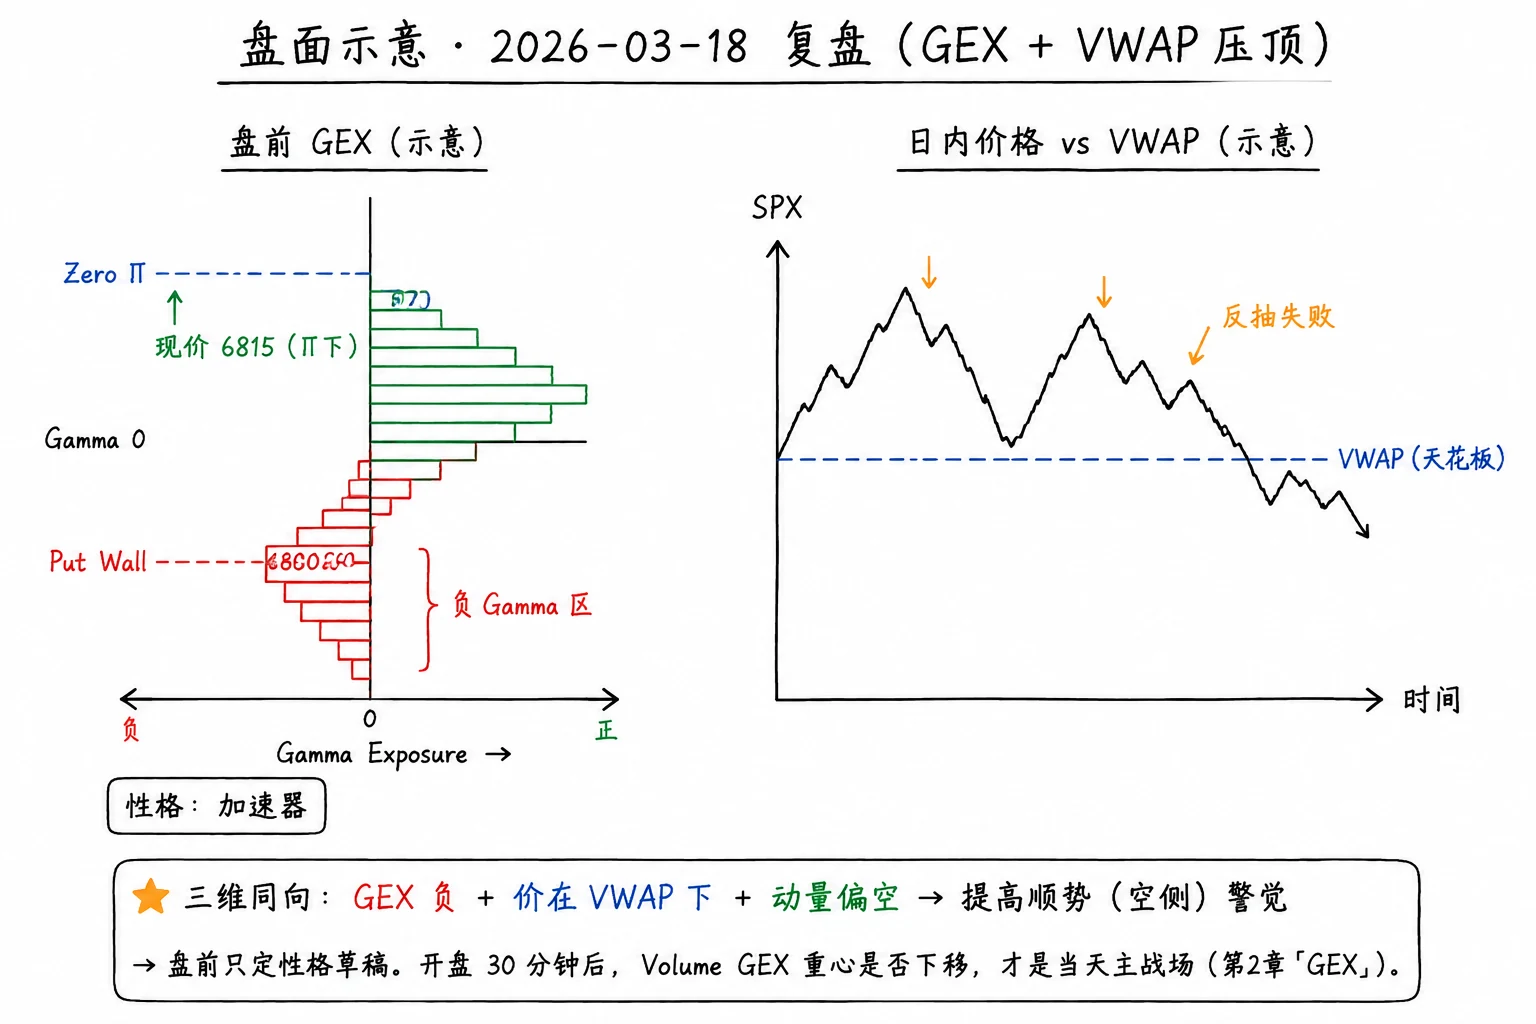
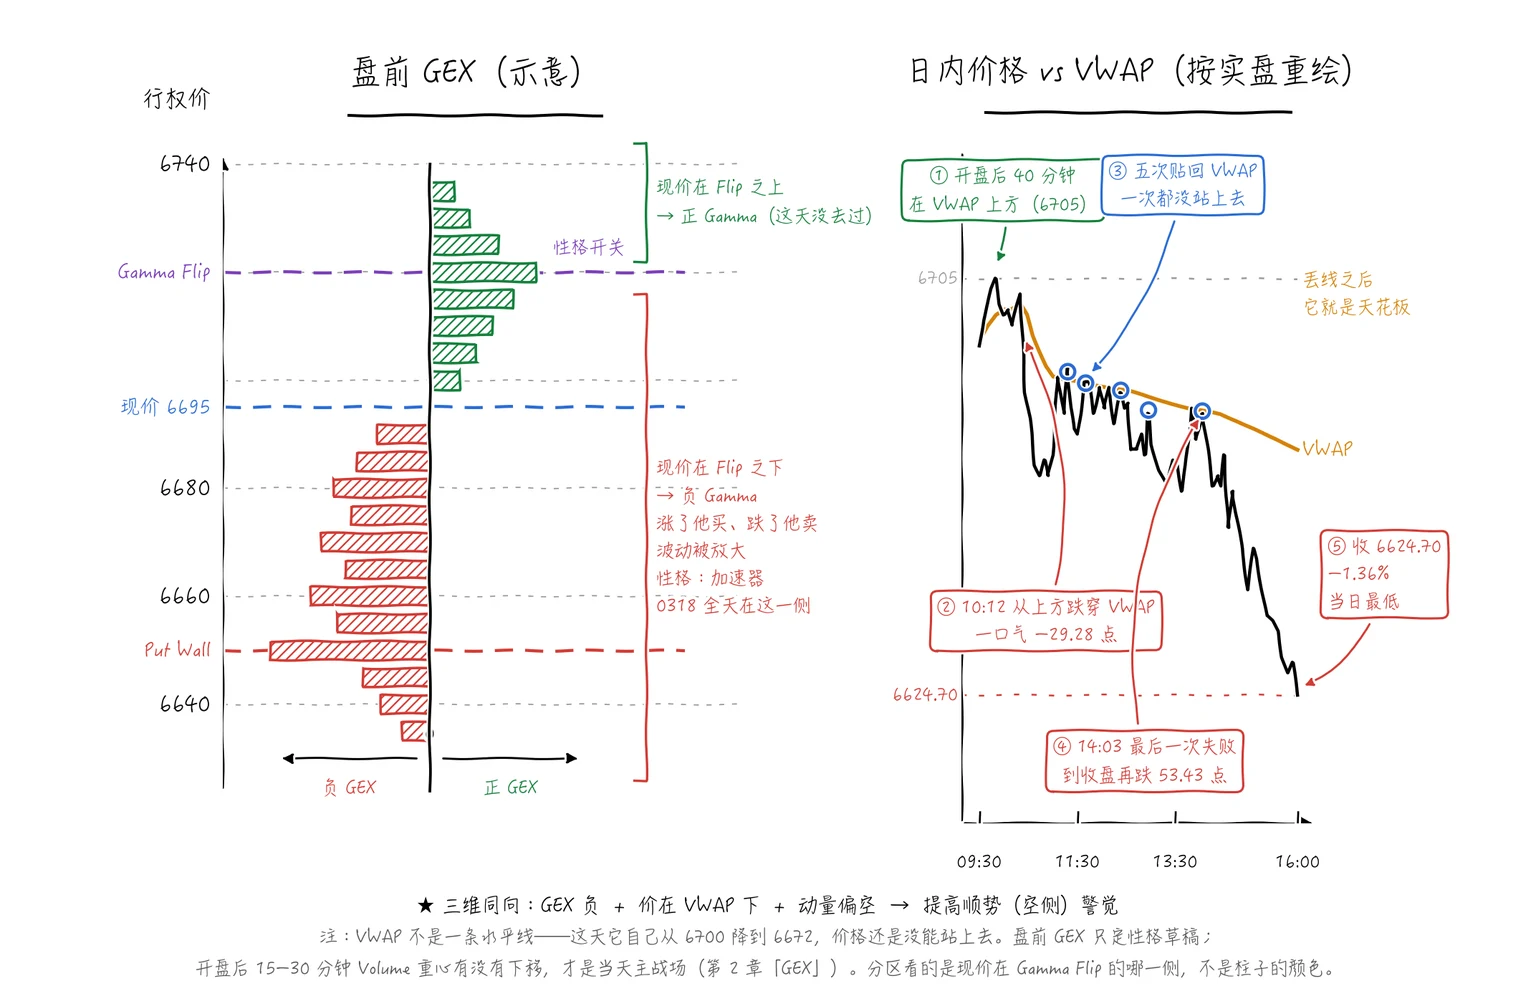
docs(第6章): 重绘图 6-4，改用 0318 真实价格轴与实盘路径
- 原图价格标注取自别的交易日（现价 6815 / Put Wall 6800），
  而 0318 全天运行在 6624–6705；价格轴整体换成当日真实区间
- 原图右半边把价格画在 VWAP 上方跑大半天，与「VWAP 天花板」自相矛盾；
  现按实盘重绘：10:12 跌穿、五次贴回失败、收 6624.70
- 删去「负 Gamma 区」把柱子颜色当性格分区的画法，
  改为按现价在 Gamma Flip 哪一侧分区（与图 4-3 口径一致）
- 页脚「开盘 30 分钟后」改为「开盘后 15–30 分钟」，与第 5 章统一
- 正文补「VWAP 不是水平线」一段，图注说明左右两半

diff --git a/content/chapters/06-stories-mid.md b/content/chapters/06-stories-mid.md
@@ -140,12 +140,12 @@ K 线如潮起复沉，墙头红绿各争侵。
 </figure>
 
 
-不是每天都有教科书级别的走势。那天 SPX 的结构，把第 5 章「GVP」的**空头版本**演了一遍——三件事同时指向同一方向。**图 6-4** 把 Flip 以下、VWAP 成顶、反弹一碰就落拧在一起；下面分维拆开读。
+不是每天都有教科书级别的走势。那天 SPX 的结构，把第 5 章「GVP」的**空头版本**演了一遍——三件事同时指向同一方向。**图 6-4** 把这天拧在一起看：左边是盘前 GEX 的性格草稿——现价在 Gamma Flip 之下，今天是加速器；右边是当日价格和 VWAP 的实际走法——丢线、五次贴回、一次都没站上。下面分维拆开读。
 
 
 <figure class="book-figure">
-  <img src="/images/figures/figure-045.webp" alt="图 6-4  GVP 偏空 · 结构与成本压顶" loading="lazy" decoding="async" />
-  <figcaption>图 6-4  GVP 偏空 · 结构与成本压顶</figcaption>
+  <img src="/images/figures/figure-045.webp" alt="图 6-4  GVP 偏空 · 左：盘前 GEX 示意，现价在 Gamma Flip 之下；右：当日价格与 VWAP 实盘" loading="lazy" decoding="async" />
+  <figcaption>图 6-4  GVP 偏空 · 左：盘前 GEX 示意，现价在 Gamma Flip 之下；右：当日价格与 VWAP 实盘</figcaption>
 </figure>
 
 
@@ -157,13 +157,15 @@ K 线如潮起复沉，墙头红绿各争侵。
 
 这一段最容易被记反，所以先说清楚：**0318 不是「开盘就没站上 VWAP」。**
 
-开盘后头 40 分钟，SPX 其实一直在 VWAP 上方，还冲到过 6705 一线。转折点在 **10:12**——价格从上方掉下来跌穿 VWAP，然后**一口气滑了 29.28 个点**。
+开盘后头 40 分钟，SPX 其实一直在 VWAP 上方，还冲到过 6705 一线（图 6-4 右）。转折点在 **10:12**——价格从上方掉下来跌穿 VWAP，然后**一口气滑了 29.28 个点**。
 
 那一下之后，它再也没回去过。
 
 剩下的一整天，价格五次重新贴上 VWAP 下沿——大约 **11:18、11:40、12:23、12:57、14:03**——一次都没站上去。最后一次是 14:03，碰完就掉头往下，**到收盘又跌了 53.43 个点**，最终收在 **6624.70，全天 −1.36%，收盘价差不多就是当日最低**。
 
 这意味着：**当天在 VWAP 上方买入的大多数人，整天都在浮亏**。反弹到 VWAP 时，解套盘要跑、新空要进，两股卖压压在同一条线上，形成**重复出现的压力带**。
+
+还有一点值得记：**VWAP 不是一条水平线。** 那天它自己从 6700 一路降到 6672，等于天花板在往下压——价格却连这条正在下沉的线都够不着。这比「反弹被均线压住」要重得多。
 
 
 | 时段            | 价格 vs VWAP            | 读法                     |
